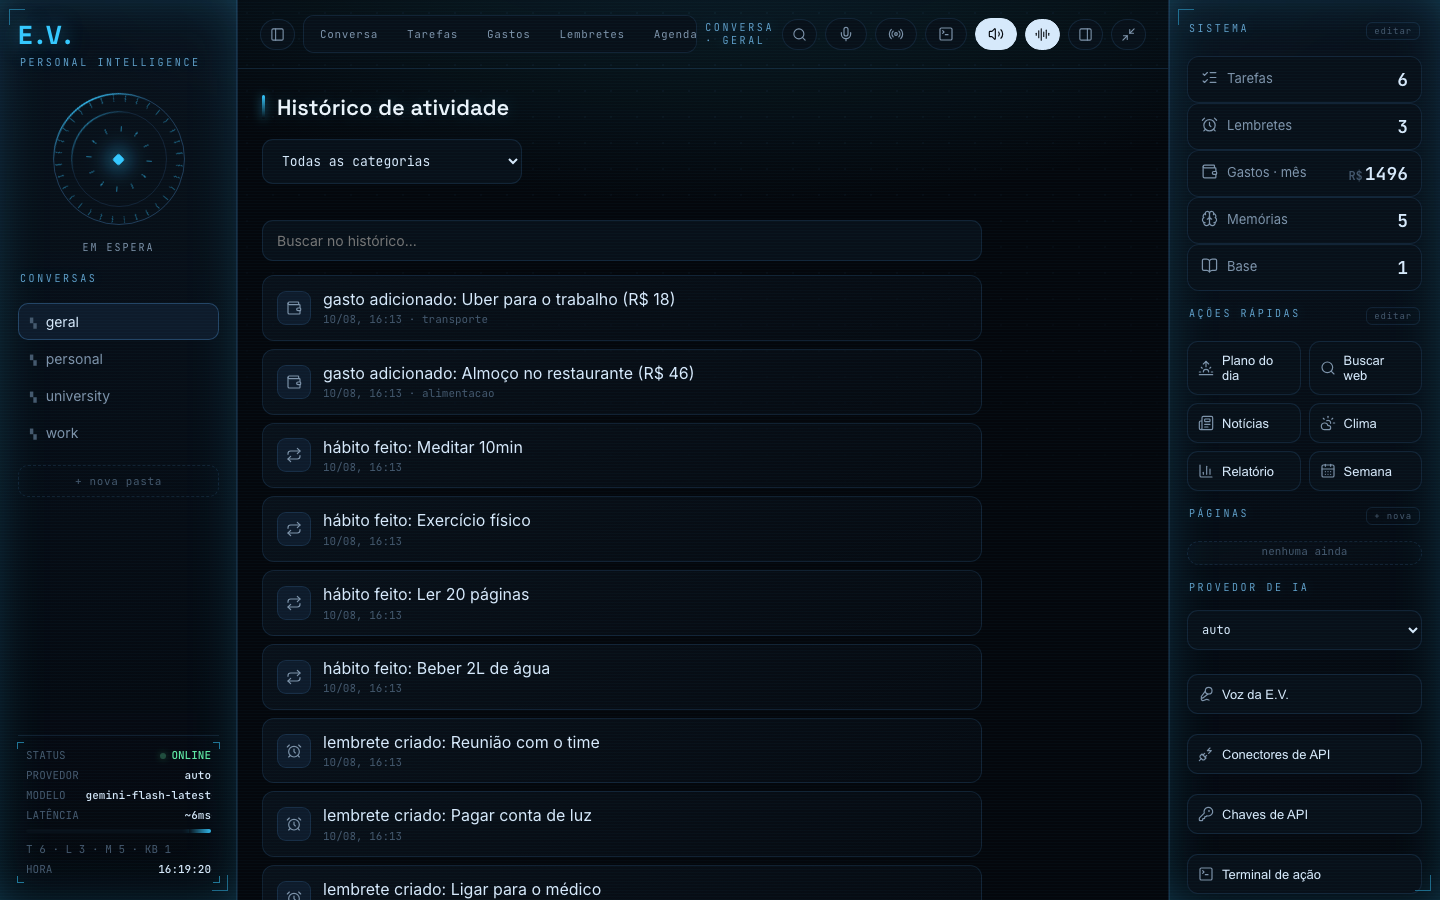
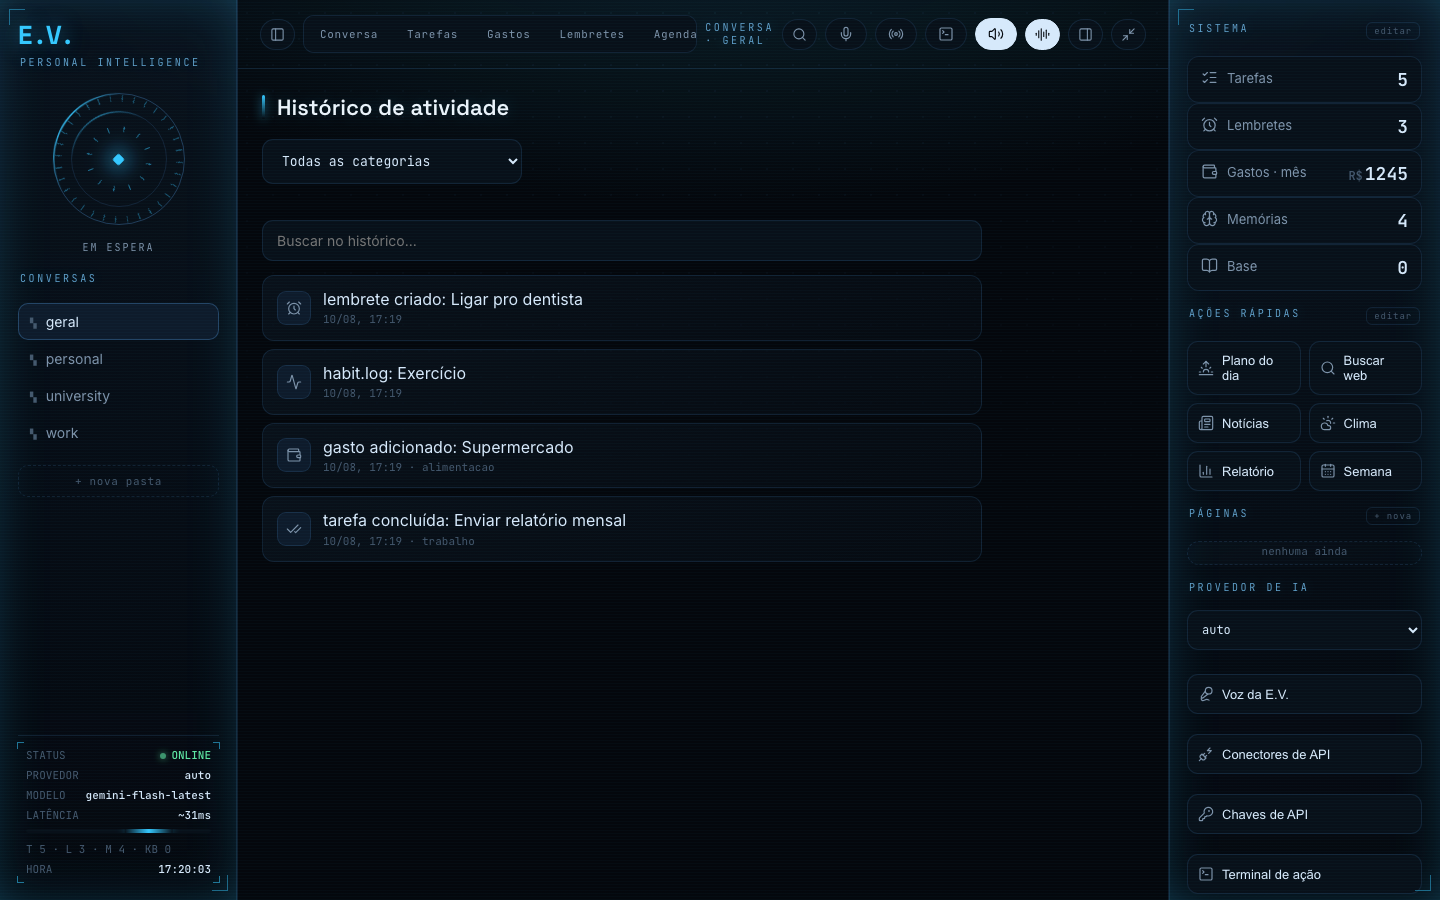
Fix leaked Tailscale hostname and wrong-screen defects in README screenshots
musica.png exposed the real Tailscale hostname via the Spotify redirect-URI
hint text. Recaptured the full gallery from a sanitized scratch environment
with a placeholder EV_WEB_BASE_URL, fictional seed data, a real terminal.png
(previously showed a /pessoa slash-command reply instead of the actual
floating action terminal, now split into its own pessoas.png), a real
chat.png conversation instead of the idle/boot screen, and fixed dashboard/
painel/clima screenshots that were captured before their async weather/astro
widgets finished loading.

diff --git a/README.md b/README.md
@@ -31,20 +31,26 @@ hands — loyal, warm, playful, and always on your side.
 
 ## Screenshots
 
-Every screen in the web console — 24 tabs plus the Telegram-style terminal and the
+Every screen in the web console — 24 tabs plus the floating action terminal and the
 red-alert mode — so you can see everything she actually does, not just the highlights.
 
 <div align="center">
 
-**Core — chat, dashboard, personas**
+**Core — chat, dashboard, terminal**
 
 | Dashboard | Chat |
 |---|---|
 | ![Dashboard](docs/screenshots/dashboard.png) | ![Chat](docs/screenshots/chat.png) |
 
-| Pessoas (`/pessoa`, no LLM) | Modo Morte Súbita |
+| Terminal de ação | Pessoas (`/pessoas`) |
 |---|---|
-| ![Pessoas](docs/screenshots/terminal.png) | ![Modo Morte Súbita](docs/screenshots/serious-mode.png) |
+| ![Terminal de ação](docs/screenshots/terminal.png) | ![Pessoas](docs/screenshots/pessoas.png) |
+
+**Modo Morte Súbita**
+
+| Modo Morte Súbita |
+|---|
+| ![Modo Morte Súbita](docs/screenshots/serious-mode.png) |
 
 **Productivity & routine**
 
